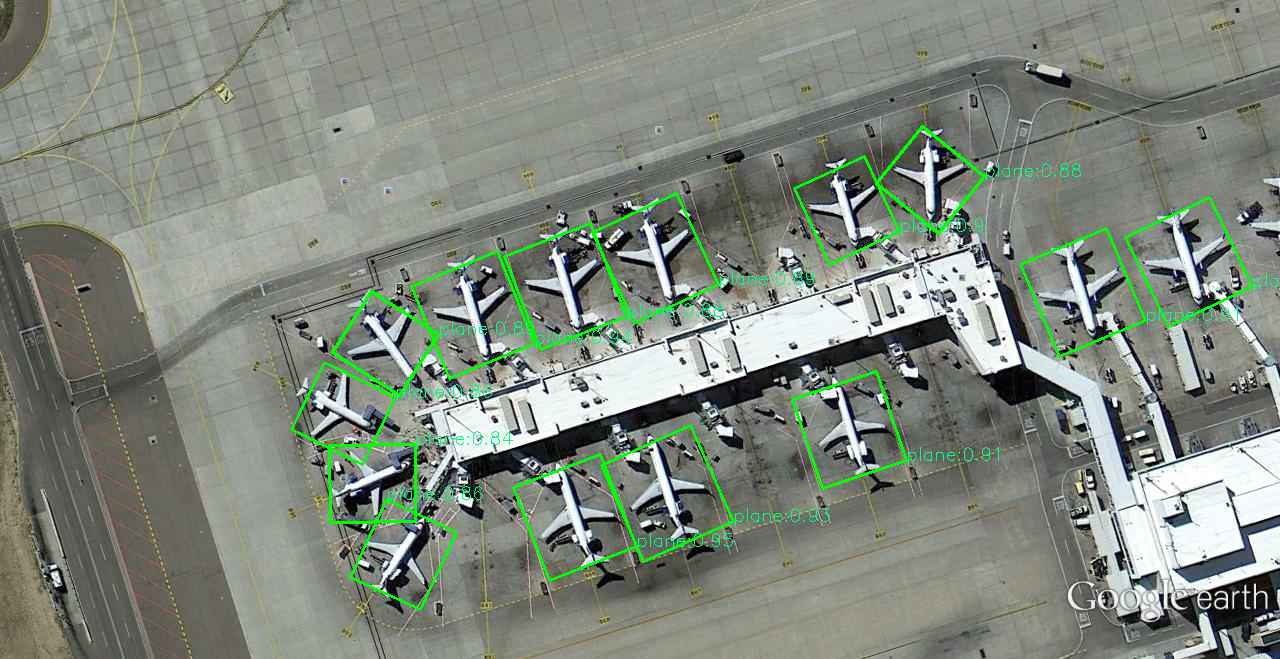
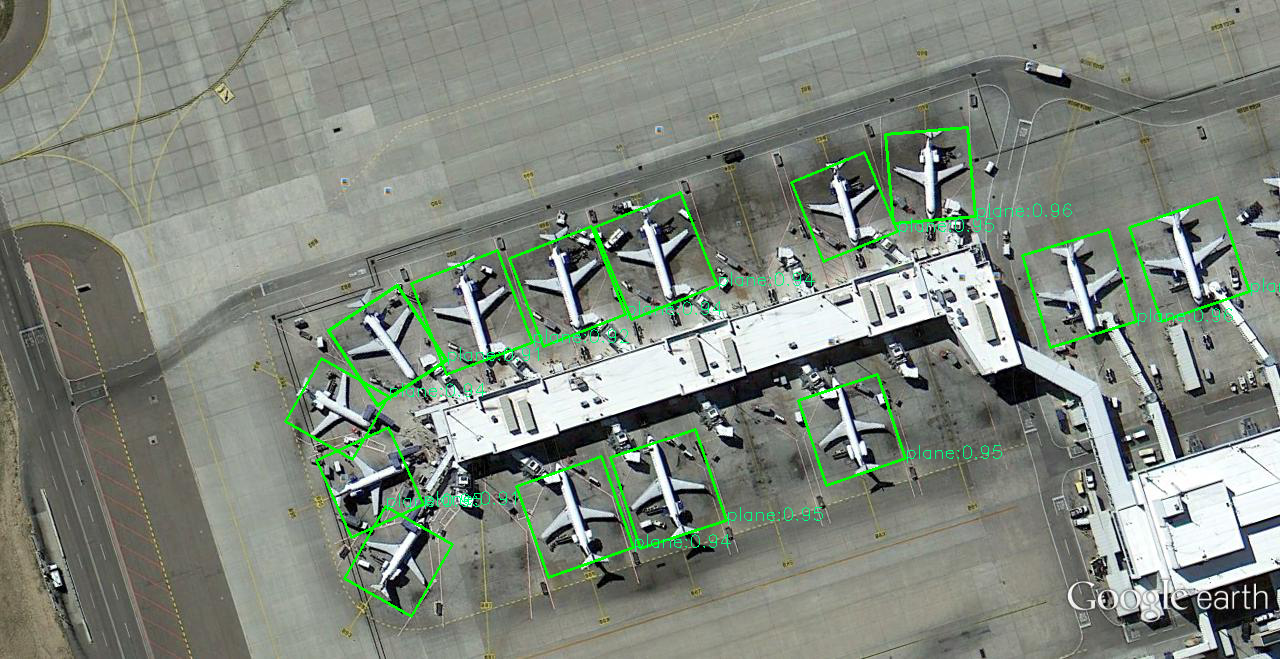
update: add test weight

diff --git a/tools/options.py b/tools/options.py
@@ -5,12 +5,15 @@ class TrainOptions:
         self.parser = argparse.ArgumentParser()
         self.parser.add_argument("--data_folder", type=str, default="data/train", help="path to train dataset")
         self.parser.add_argument("--weights_path", type=str, default="weights/pretrained/yolov4.pth", help="path to pretrained weights file")
-        self.parser.add_argument("--model_name", type=str, default="UCAS_AOD", help="new model name")
+        self.parser.add_argument("--model_name", type=str, default="new_model", help="new model name")
         self.parser.add_argument("--epochs", type=int, default=50, help="number of epochs")
         self.parser.add_argument("--lr", type=float, default=0.001, help="learning rate")
-        self.parser.add_argument("--batch_size", type=int, default=4, help="size of batches")
-        self.parser.add_argument("--subdivisions", type=int, default=4, help="size of mini batches")
-        self.parser.add_argument("--img_size", type=int, default=416, help="size of each image dimension")
+        self.parser.add_argument("--batch_size", type=int, default=2, help="size of batches")
+        self.parser.add_argument("--subdivisions", type=int, default=8, help="size of mini batches")
+        self.parser.add_argument("--img_size", type=int, default=608, help="size of each image dimension")
+        self.parser.add_argument("--number_of_classes", type=int, default=2, help="number of your output classes")
+        self.parser.add_argument("--no_augmentation", action="store_true", help="if set, disable data augmentation in training")
+        self.parser.add_argument("--no_multiscale", action="store_true", help="if set, disable multiscale data in training")
 
     def parse(self):
         return self.parser.parse_args()
@@ -25,7 +28,9 @@ class TestOptions:
         self.parser.add_argument("--nms_thres", type=float, default=0.2, help="iou thresshold for non-maximum suppression")
         self.parser.add_argument("--iou_thres", type=float, default=0.5, help="iou threshold for evaluation")
         self.parser.add_argument("--batch_size", type=int, default=1, help="size of the batches")
-        self.parser.add_argument("--img_size", type=int, default=416, help="size of each image dimension")
+        self.parser.add_argument("--img_size", type=int, default=608, help="size of each image dimension")
+        self.parser.add_argument("--number_of_classes", type=int, default=2, help="number of your output classes")
+
 
     def parse(self):
         return self.parser.parse_args()
@@ -39,7 +44,8 @@ class DetectOptions:
         self.parser.add_argument("--conf_thres", type=float, default=0.7, help="object confidence threshold")
         self.parser.add_argument("--nms_thres", type=float, default=0.2, help="iou thresshold for non-maximum suppression")
         self.parser.add_argument("--batch_size", type=int, default=1, help="size of the batches")
-        self.parser.add_argument("--img_size", type=int, default=416, help="size of each image dimension")
+        self.parser.add_argument("--img_size", type=int, default=608, help="size of each image dimension")
+        self.parser.add_argument("--number_of_classes", type=int, default=2, help="number of your output classes")
 
     def parse(self):
         return self.parser.parse_args()

diff --git a/tools/load.py b/tools/load.py
@@ -216,19 +216,19 @@ def split_data(data_dir, img_size, batch_size=4, shuffle=True, augment=True, mul
     for x, y in dataset.samples:
         classes[int(y)].append(x)
 
-    train_inputs, train_labels = [], []
+    inputs, labels = [], []
 
     for i, data in enumerate(classes):  # 讀取每個類別中所有的檔名 (i: label, data: filename)
 
         for x in data:
-            train_inputs.append(x)
-            train_labels.append(i)
+            inputs.append(x)
+            labels.append(i)
 
-    train_dataset = ListDataset(train_inputs, train_labels, img_size=img_size, augment=augment, multiscale=multiscale)
-    train_dataloader = torch.utils.data.DataLoader(train_dataset, batch_size=batch_size, shuffle=shuffle,
-                                                   pin_memory=True, collate_fn=train_dataset.collate_fn)
+    dataset = ListDataset(inputs, labels, img_size=img_size, augment=augment, multiscale=multiscale)
+    dataloader = torch.utils.data.DataLoader(dataset, batch_size=batch_size, shuffle=shuffle,
+                                                   pin_memory=True, collate_fn=dataset.collate_fn)
 
-    return train_dataset, train_dataloader
+    return dataset, dataloader
 
 
 if __name__ == "__main__":

diff --git a/train.py b/train.py
@@ -119,7 +119,11 @@ class Train:
         self.save_opts()
         self.logger = Logger(os.path.join(self.model_path, "logs"))
 
-        train_dataset, train_dataloader = split_data(self.args.train_path, self.args.img_size, self.args.batch_size, multiscale=False)
+        augment = False if self.args.no_augmentation else True
+        multiscale = False if self.args.no_multiscale else True
+
+        train_dataset, train_dataloader = split_data(self.args.train_path, self.args.img_size, self.args.batch_size, 
+                                                        augment=augment, multiscale=multiscale)
         num_iters_per_epoch = len(train_dataloader)
         scheduler_iters = round(self.args.epochs * len(train_dataloader) / self.args.subdivisions)
         total_step = num_iters_per_epoch * self.args.epochs

diff --git a/test.py b/test.py
@@ -156,7 +156,7 @@ class Test:
         else:
             assert False, "Model is not exist"
         pretrained_dict = torch.load(weight_path, map_location=torch.device('cpu'))
-        self.model = Yolo(n_classes=2)
+        self.model = Yolo(n_classes=self.args.number_of_classes)
         self.model = self.model.to(self.device)
         self.model.load_state_dict(pretrained_dict)
 

diff --git a/detect.py b/detect.py
@@ -30,7 +30,7 @@ class Detect:
         else:
             assert False, "Model is not exist"
         pretrained_dict = torch.load(weight_path, map_location=self.device)
-        self.model = Yolo(n_classes=2)
+        self.model = Yolo(n_classes=self.args.number_of_classess)
         self.model = self.model.to(self.device)
         self.model.load_state_dict(pretrained_dict)
 
